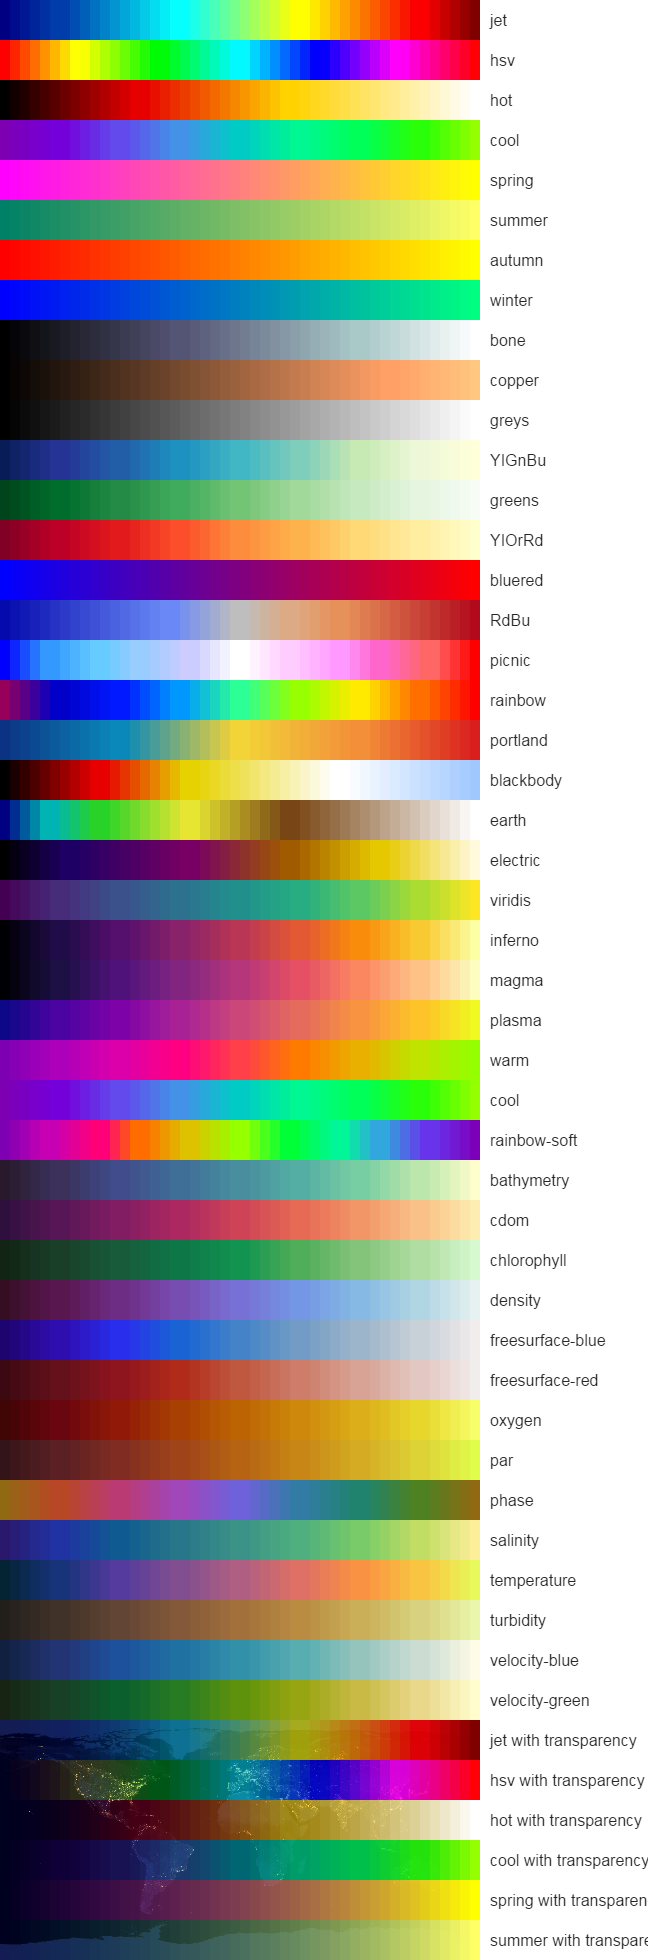
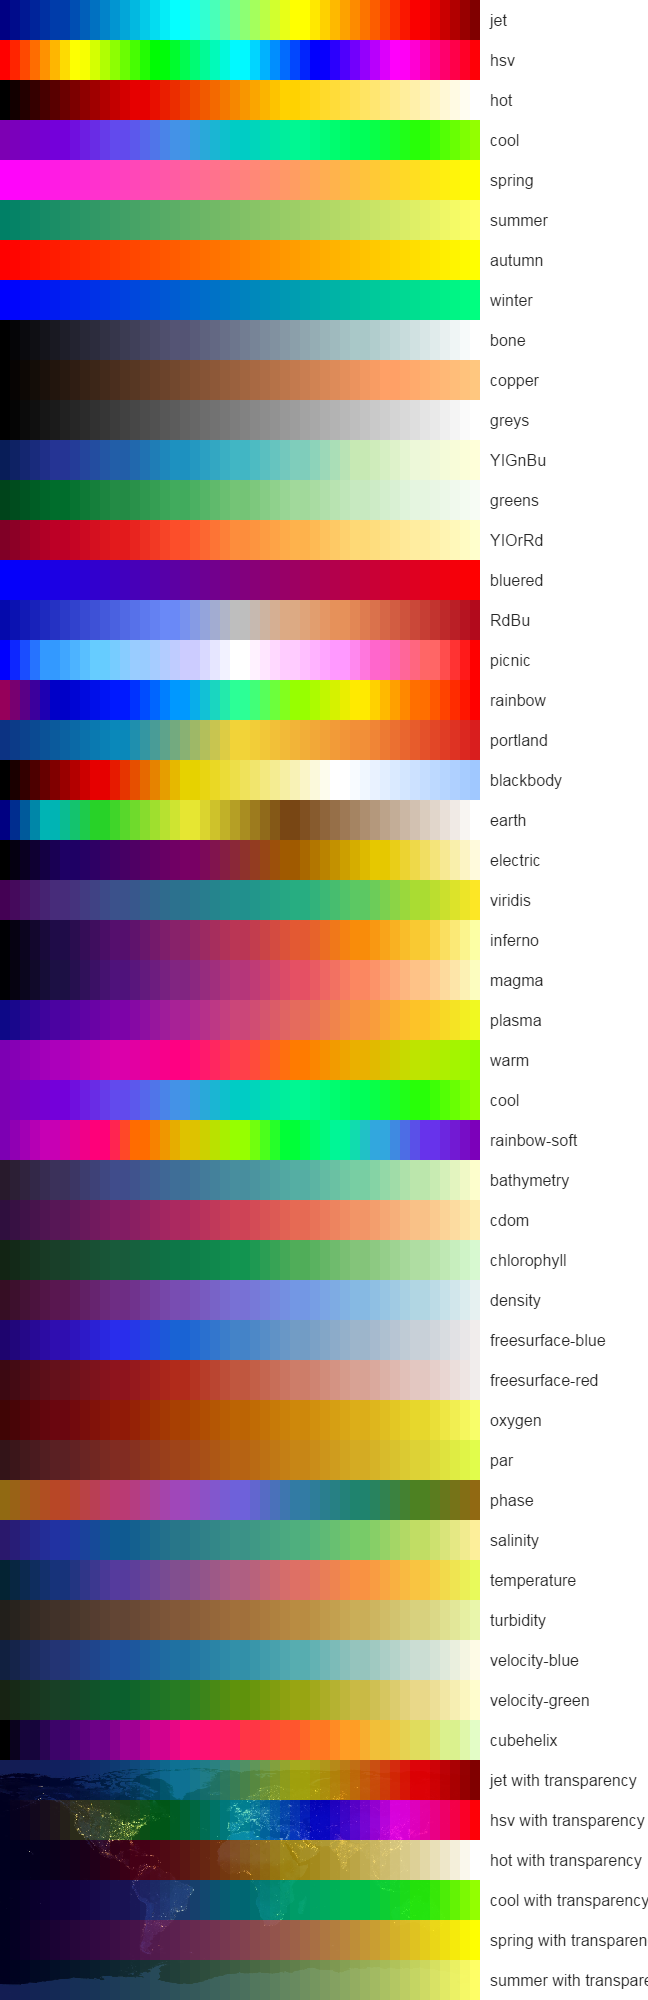
Fix test, regenerate colormap

Changed region(s): [[0.0, 0.0311, 1.0, 0.9959], [0.0, 0.0934, 0.7407, 0.1245], [0.8025, 0.9648, 0.8333, 0.9959]]

diff --git a/example/example.js b/example/example.js
@@ -10,7 +10,9 @@ var cmap = require('./..'),
 
         'viridis', 'inferno', 'magma', 'plasma', 'warm', 'cool', 'rainbow-soft',
 
-        'bathymetry', 'cdom', 'chlorophyll', 'density', 'freesurface-blue', 'freesurface-red', 'oxygen', 'par', 'phase', 'salinity', 'temperature', 'turbidity', 'velocity-blue', 'velocity-green'
+        'bathymetry', 'cdom', 'chlorophyll', 'density', 'freesurface-blue', 'freesurface-red', 'oxygen', 'par', 'phase', 'salinity', 'temperature', 'turbidity', 'velocity-blue', 'velocity-green',
+
+        'cubehelix'
     ];
 
 img.onload = run;

diff --git a/test/draw.js b/test/draw.js
@@ -6,6 +6,8 @@
 var cubehelix = require('color-space/cubehelix');
 
 
+if (typeof document === 'undefined') return;
+
 //paint original and compressed colormap for comparison
 var magma = require('./res/magma');
 show(toImageData(magma), 'magma original');

diff --git a/README.md b/README.md
@@ -2,7 +2,7 @@
 
 [![Build Status](https://travis-ci.org/bpostlethwaite/colormap.png)](https://travis-ci.org/bpostlethwaite/colormap)
 
-![all colormap output](https://github.com/bpostlethwaite/colormap/blob/master/example/colormaps.png)
+![all colormap output](./example/colormaps.png)
 
 ## Simple example
 
